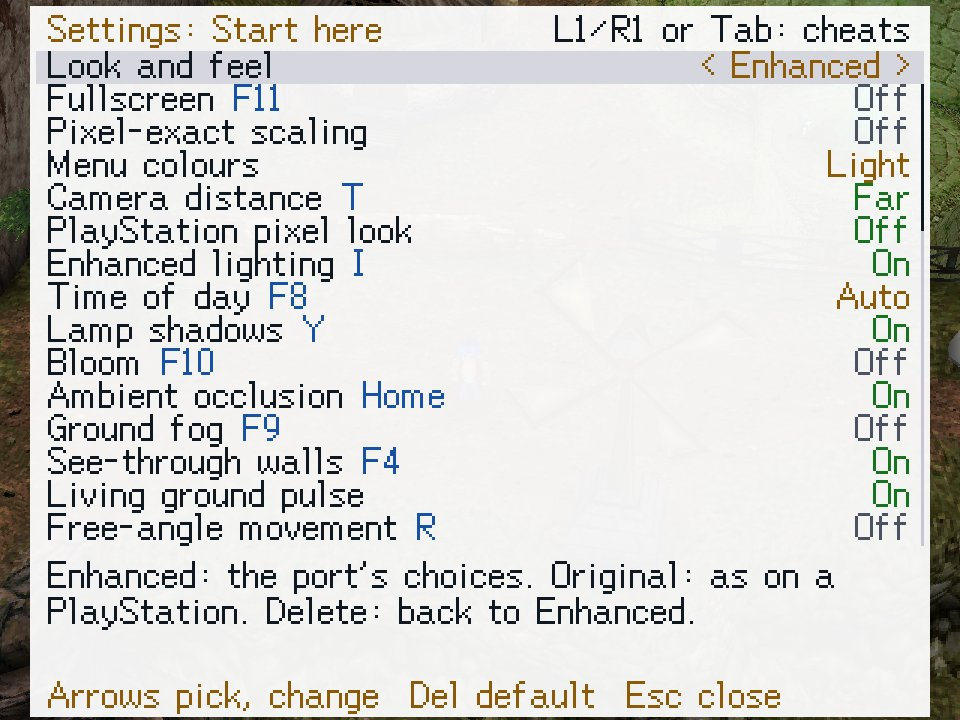
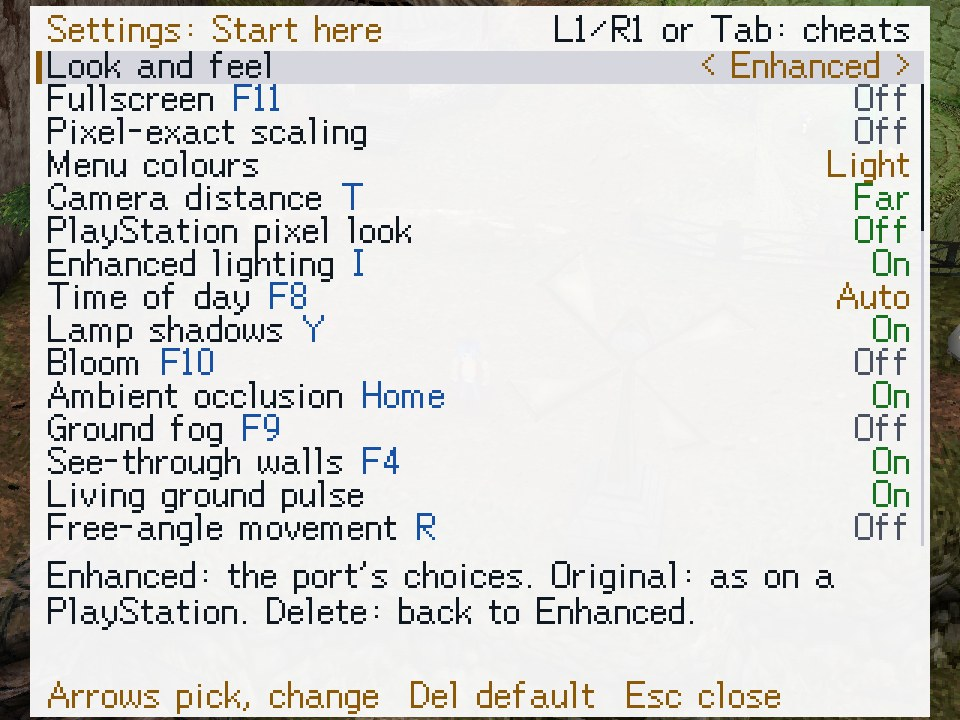
Guides: the taller launcher, the F12 focus bar, Explorer's actor tools row
Desktop apps page shots of the F12 settings page retaken in both palettes
with the focus bar.

diff --git a/site/_content/guides/desktop-apps.html b/site/_content/guides/desktop-apps.html
@@ -135,7 +135,7 @@
     <img src="../img/desktop/explorer-actors.jpg" width="1280" height="800" alt="The Characters &amp; monsters view: the party and monster lists on the left, Vahn in battle form partway through his Pyro Pummel art on the right, with the equipment pickers, the clip picker and the frame slider" loading="lazy">
     <figcaption>The party in battle form with any equipment, and every monster by name with its element; every battle animation plays or steps frame by frame.</figcaption>
   </figure>
-  <p>Pick a party member to see the battle model built from the equipment you choose, or a monster from the list (<code>Gimard Lv2</code>, with its element badge). Every battle animation plays at game speed or steps a frame at a time; for Vahn, Noa and Gala the list includes every Tactical Art by name. <em>Export glTF</em> writes the animated model. On a window too narrow for the five equipment pickers in one row, they fold under one <em>Equipment</em> line, which says how many pieces differ from the default; click it to open them.</p>
+  <p>Pick a party member to see the battle model built from the equipment you choose, or a monster from the list (<code>Gimard Lv2</code>, with its element badge). Every battle animation plays at game speed or steps a frame at a time; for Vahn, Noa and Gala the list includes every Tactical Art by name. <em>Export glTF</em> writes the animated model. On a narrow window a long monster name sits on its own line above the view's buttons, so they stay on one row. On a window too narrow for the five equipment pickers in one row, they fold under one <em>Equipment</em> line, which says how many pieces differ from the default; click it to open them.</p>
 
   <h3 id="explorer-media">Movies &amp; voice</h3>
   <p>The disc's movies, each naming where in the game it plays and which place the story goes on in, play with their soundtrack, or step frame by frame with PNG export of any frame. The streamed CD-XA audio (voices, some music) is listed file by file and channel by channel, each playable and exportable as WAV; while a channel plays, drag the slider beside <em>Stop</em> to move through it. These read raw CD sectors, so they need the disc image rather than an extracted folder.</p>
@@ -184,7 +184,7 @@
   <h3 id="port-launcher">The launcher</h3>
   <figure class="screenshot">
     <img src="../img/desktop/port-launcher.jpg" width="960" height="720" alt="The launcher: a disc card saying Legend of Legaia (USA) is ready, the Play, Play online, Change disc, Expansion pack, Controls, Recent, Saves folder and Quit buttons with a help box, and the grouped option list with its scroll bar, opening on the Look and feel row, then Display and Enhancements" loading="lazy">
-    <figcaption>The launcher. Once it knows your disc it letters itself in the game's own font.</figcaption>
+    <figcaption>The launcher. Once it knows your disc it letters itself in the game's own font. It scales in whole steps to stay sharp; a taller window shows more of the option list instead of empty margins.</figcaption>
   </figure>
   <ol class="steps">
     <li><b>Choose disc...</b><span>On a first run the launcher offers a disc you already opened in Legaia Explorer, or looks in Downloads, the Desktop, Documents and its own folder for a dump named for the game and offers it (<em>Found your disc image</em>). <em>Play</em> starts the game on a found disc straight away; <em>Use this disc</em> only takes it. On a controller, Cross opens the launcher's own disc finder, since the desktop's file window needs a mouse: open folders with Cross until you reach the <code>.bin</code> or <code>.cue</code>, and Cross on it uses it. Otherwise pick your <code>.bin</code> or <code>.cue</code> (<kbd>Ctrl</kbd>+<kbd>O</kbd>), drag it onto the window, or type or paste its path (<kbd>Ctrl</kbd>+<kbd>V</kbd>). It is checked and remembered, together with the last few discs you used: right-click <em>Choose disc...</em> or press <kbd>Shift</kbd>+<kbd>Enter</kbd> on it to switch back to one (a retail disc beside a randomized copy, say).</span></li>
@@ -265,7 +265,7 @@
   </figure>
   <figure class="screenshot">
     <img src="../img/desktop/port-settings.jpg" width="960" height="720" alt="The F12 panel over a dimmed town on its Settings page: Look and feel focused on Enhanced, then fullscreen, camera distance, the PlayStation pixel look, the lighting rows, bloom, ambient occlusion, fog, see-through walls and free-angle movement, each toggle with its key after its label, and the focused row's help below" loading="lazy">
-    <figcaption>The settings page, the panel's first: Up / Down pick a row, Left / Right change it and <kbd>Delete</kbd> puts it back on its default, with the game held still and the change showing behind the panel at once. It writes the same <code>legaia-options.toml</code> as the launcher. It carries every launcher row but the window size, the gameplay tweaks and battle tuning among them, under a heading naming the row's group, and each row with a key of its own names the key after its label. Its first row is <em>Look and feel</em>: one Right press plays the original game, the next gives your mix back, and <kbd>Delete</kbd> returns to <em>Enhanced</em>; the launcher's own rows change the game live too, and the launcher remembers them for the next Play.</figcaption>
+    <figcaption>The settings page, the panel's first: Up / Down pick a row (the gold bar at its left edge marks it, as on the launcher), Left / Right change it and <kbd>Delete</kbd> puts it back on its default, with the game held still and the change showing behind the panel at once. It writes the same <code>legaia-options.toml</code> as the launcher. It carries every launcher row but the window size, the gameplay tweaks and battle tuning among them, under a heading naming the row's group, and each row with a key of its own names the key after its label. Its first row is <em>Look and feel</em>: one Right press plays the original game, the next gives your mix back, and <kbd>Delete</kbd> returns to <em>Enhanced</em>; the launcher's own rows change the game live too, and the launcher remembers them for the next Play.</figcaption>
   </figure>
   <figure class="screenshot">
     <img src="../img/desktop/port-settings-light.jpg" width="960" height="720" alt="The same F12 Settings page in the light palette: dark lettering on a near-white plate over the town, the key names in blue, the values that depart from the original game in green and the controls line in gold" loading="lazy">

diff --git a/crates/explorer/README.md b/crates/explorer/README.md
@@ -21,7 +21,7 @@ runtime, and writes only into folders the user chooses.
 | Audio | VAB banks (spans resolved through the DATA_FIELD body chunk) with per-sample length, waveform (decoded as a row scrolls into view; it narrows to leave the row's Play and WAV buttons on screen at the minimum window width, `wave_width`), play and WAV export; SEQ playback on the `legaia-engine-audio` SPU + sequencer with a chosen bank. The [transport row](#the-audio-transport) shows how far the sound is. |
 | Text | Field dialog read out of the scene MAN script and raw carriers the way `legaia-patcher translate export` reads it, in the language-pack markup and with the build's own codec (accented cells shown as letters on the PAL builds, `legaia_font::latin`); MES messages (Compact: per offset-table message; Records: the `0x1F`-led segments of each record); a *Find* field that keeps the lines holding every typed word (`line_matches`) and says how many; text export of every line, whatever is found. |
 | Hex | A virtualised hex / ASCII dump of the whole entry, 16 bytes a row, or 8 where 16 do not fit the pane (`hex_row_bytes`), so a row never wraps; *Go to* takes a hex offset (`parse_hex_offset`) and puts its row at the top, or says the entry is shorter. |
-| Characters & monsters | The four party members assembled from their player files (PROT 863..866) with a per-section equipment picker named from the build's own executable (`ItemNameTable::from_exe`: the USA table or the French, German or Italian one, accents kept), and the monster archive (PROT 867) listed by name as the font draws it, with its element badge; every battle animation clip, and for Vahn, Noa and Gala every Tactical Art by name, plays or steps frame by frame (`Space` plays and pauses where it stopped, `Left` / `Right` step a frame); animated `.glb` export. The five equipment pickers fold under one *Equipment* header (closed, naming how many pieces are changed) when they would need more than one row. |
+| Characters & monsters | The four party members assembled from their player files (PROT 863..866) with a per-section equipment picker named from the build's own executable (`ItemNameTable::from_exe`: the USA table or the French, German or Italian one, accents kept), and the monster archive (PROT 867) listed by name as the font draws it, with its element badge; every battle animation clip, and for Vahn, Noa and Gala every Tactical Art by name, plays or steps frame by frame (`Space` plays and pauses where it stopped, `Left` / `Right` step a frame); animated `.glb` export. The five equipment pickers fold under one *Equipment* header (closed, naming how many pieces are changed) when they would need more than one row; the view's tools keep one row, a long name above them. |
 | Movies & voice | The STR movies (`MOV/*.STR`), each saying where it plays and which scene the game goes on in (`media::movie_note`, from the FMV table's hand-offs in [`str-fmv-table.md`](../../docs/formats/str-fmv-table.md)): frames decoded on demand (Iki MDEC), played paced by their XA soundtrack's clock (a movie resumed from a paused frame resumes its soundtrack at that frame's sample), PNG frame export, with the same `Space` and `Left` / `Right` keys as the animations; the CD-XA files (`XA/*.XA`) demultiplexed per `(file, channel)` and decoded at their subheader rate, with play and WAV export, each file and channel naming what plays where a cue table does (`media::xa_file_note`, `xa_channel_note`); a channel plays under the [transport row](#the-audio-transport). Disc images only. |
 | Play | Starts `legaia-engine` (`command-line-tools/` in the archive, or beside a `cargo build`'s binary) as `play-window --disc <bin> --boot-ui` on the open USA disc, in the engine's per-user data folder, so saves and settings match a game started directly (`launch`). Its output goes to `legaia-explorer-game.log` there; a failed exit puts the reason on the error banner, whose *Copy report* takes the log's end along (`game_exit::report_text`). `F5` presses it, or says why not; the launcher's switches ride along (below). A start also writes the disc into the engine's `launcher.toml` (`record_disc_for_engine`: the `disc` key only), so the game started directly boots it without its picker. Disabled with the reason on hover for an extracted folder, another region's disc, a missing engine. |
 | Status line | A settings file that will not save says so on the error banner, once. A confirmation clears itself after a few seconds (the clock restarts while the pointer is on it); an error is a wrapping banner that stays, with *Copy* and *Dismiss* ahead of the text so a long path never pushes them off the window; a game that stopped with an error adds *Copy report* and *Show log* (the folder holding its log). |

diff --git a/docs/guides/playing-and-viewing.md b/docs/guides/playing-and-viewing.md
@@ -58,7 +58,9 @@ lettered in the game's own dialog font, read from that disc. It is drawn in
 whole steps (2x in its 960x720 window); a window a little short of a step, as
 a 960x720 window on a 768-pixel-tall screen comes back once the title bar and
 panel are paid for, keeps the step with a slimmer header band rather than
-falling to 1x.
+falling to 1x. A window taller than a step keeps the step and lengthens the
+two columns instead, so the option list shows more rows at once (up to the
+whole list) rather than sitting in empty margins.
 
 | Key / mouse | Does |
 |---|---|
@@ -537,7 +539,8 @@ next gives the mix back; `Delete` on it puts every row it speaks for back on
 *Enhanced*. A row with a window key letters the key after its label (*Ground
 fog F9*, *Enhanced lighting I*), dimmed while the original game holds the row.
 The heading names the launcher group the focused row is in (*Settings: Battle
-tuning*). Up / Down pick a row and Left / Right (Cross, or `Enter`) change it,
+tuning*); the focused row is marked as on the launcher, a lighter band with a
+gold bar down its left edge, on every page of the panel. Up / Down pick a row and Left / Right (Cross, or `Enter`) change it,
 `Delete` puts it back on its default as on the launcher, with the row's help
 underneath; a change takes effect behind the panel at once, and the list
 scrolls under the plate. Options go to `legaia-options.toml`; the launcher's
